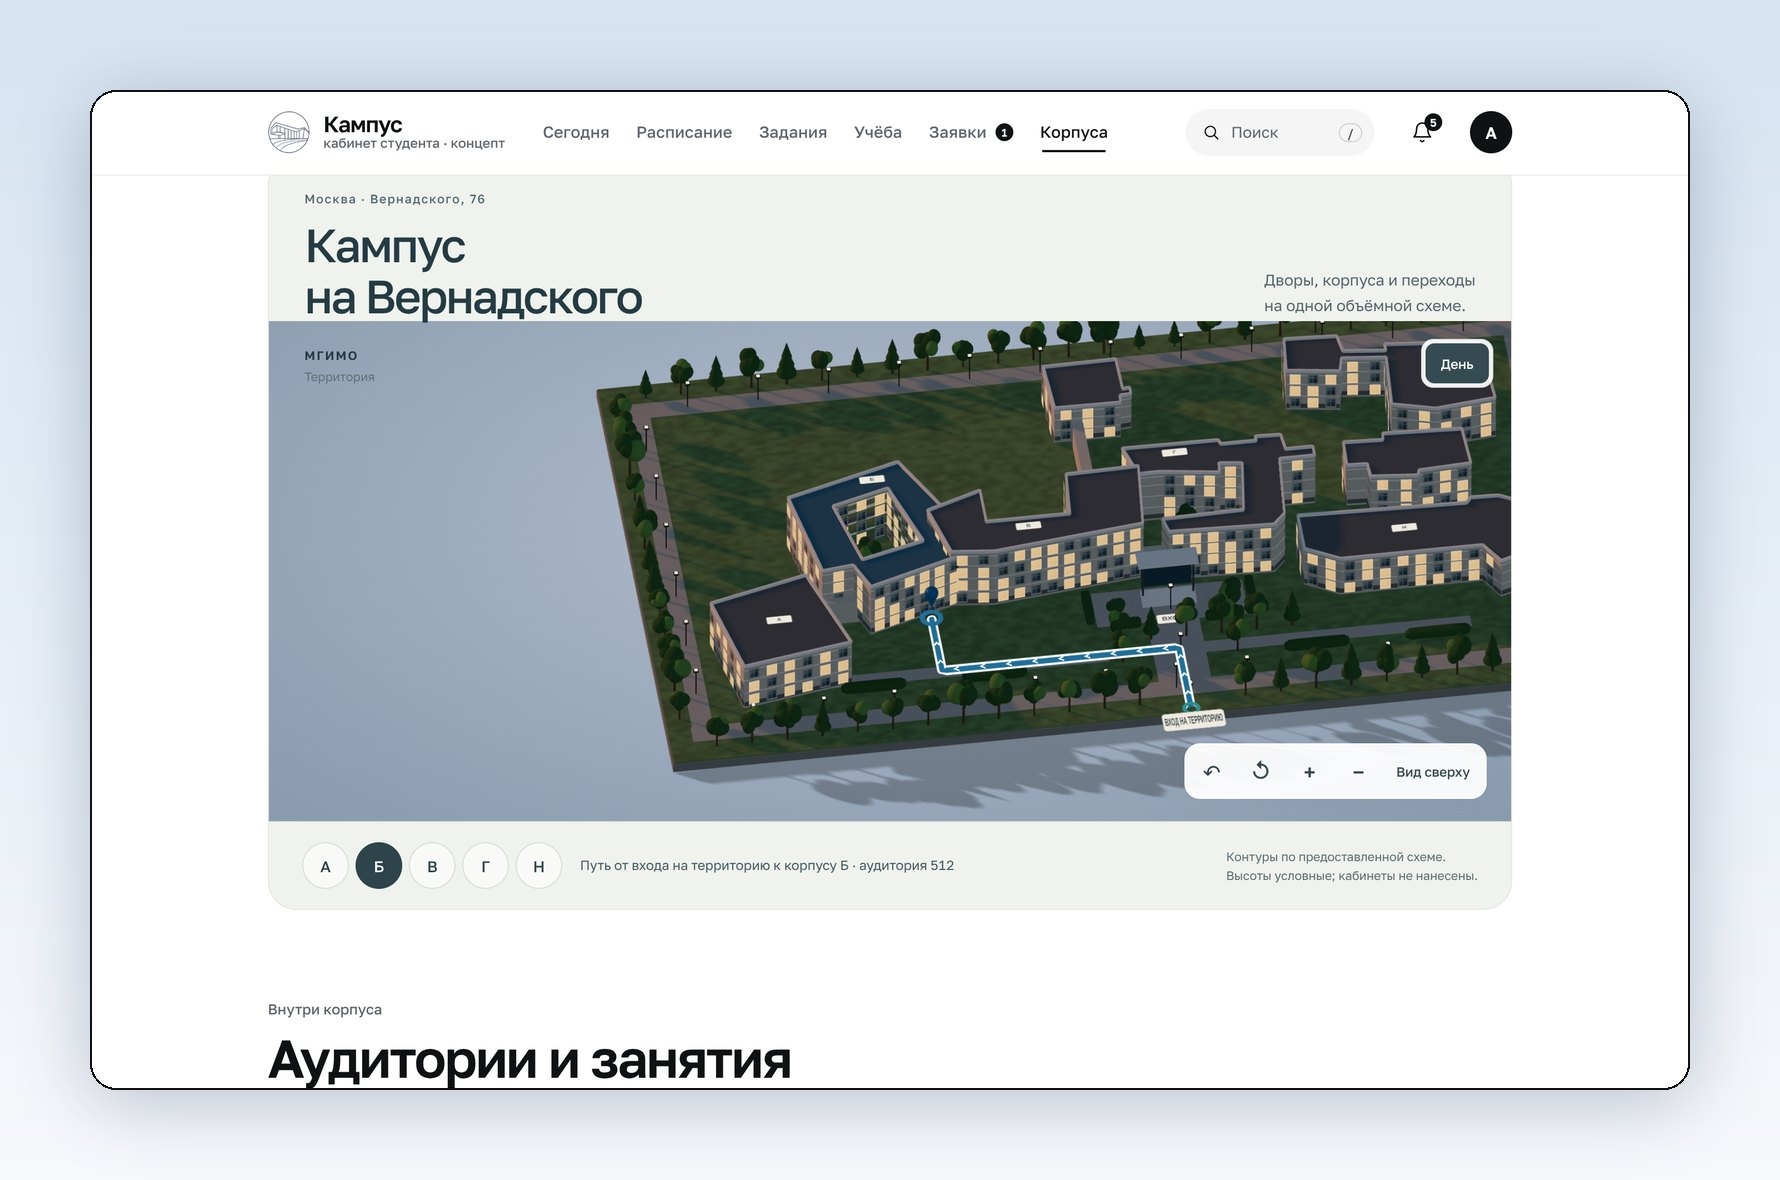
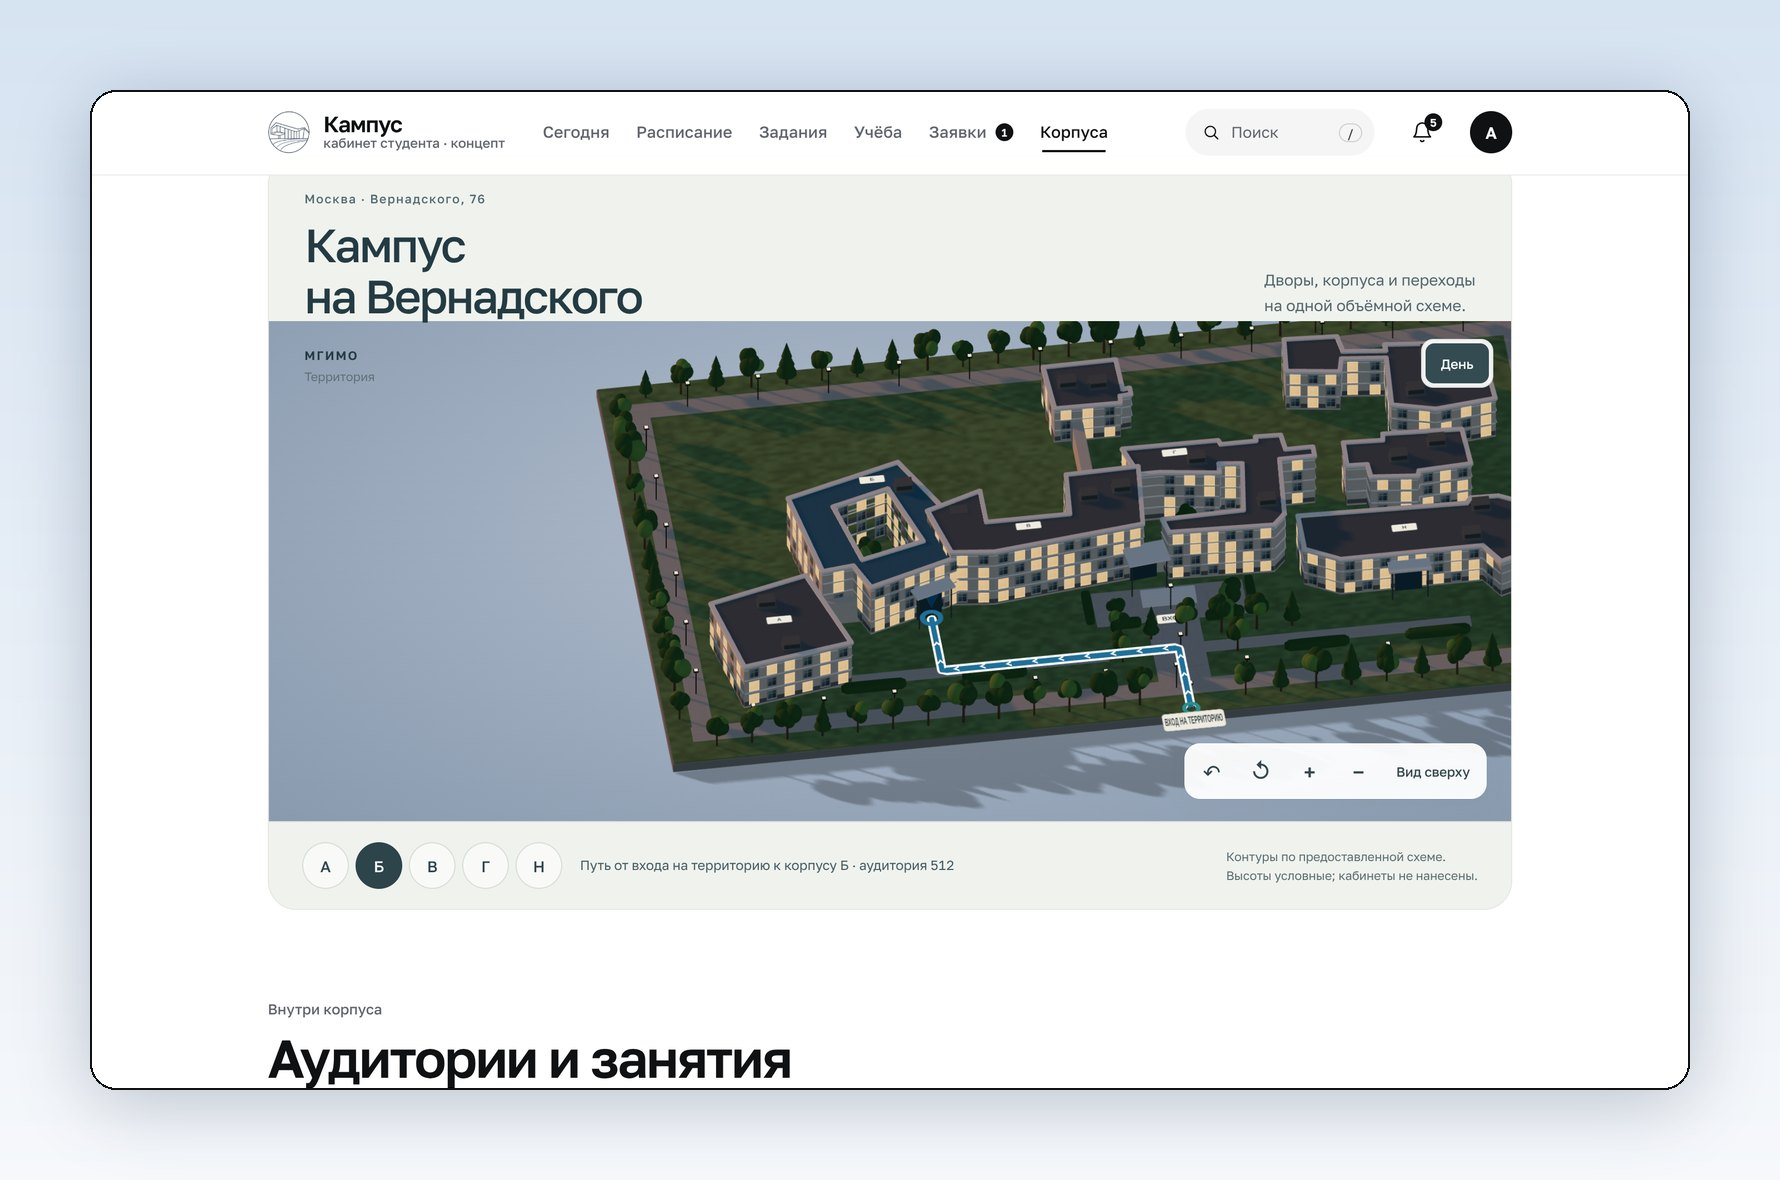
3D-фасады: карнизы, межэтажные пояса, козырьки входов, оборудование на кровле; на макете подписан корпус схемы
Claude-Session: https://claude.ai/code/session_01WXnceTRAi8bW5CZN4AeUqz

diff --git a/public/js/architecture-exterior.js b/public/js/architecture-exterior.js
@@ -1,7 +1,63 @@
-import {WINGS} from './campus-geometry.js';
+import {WINGS,territoryRoute} from './campus-geometry.js';
 
 const world=([x,z])=>[(x-410)/20,(z-190)/20];
 const signedArea=(points)=>points.reduce((sum,p,i)=>{const q=points[(i+1)%points.length];return sum+p[0]*q[1]-q[0]*p[1];},0);
+
+function nearestEdge(points,[x,z]) {
+  let nearest;
+  for(let i=0;i<points.length;i++) {
+    const a=points[i],b=points[(i+1)%points.length],dx=b[0]-a[0],dz=b[1]-a[1];
+    const t=Math.max(0,Math.min(1,((x-a[0])*dx+(z-a[1])*dz)/(dx*dx+dz*dz)));
+    const px=a[0]+t*dx,pz=a[1]+t*dz,distance=Math.hypot(x-px,z-pz);
+    if(!nearest||distance<nearest.distance)nearest={x:px,z:pz,dx,dz,distance};
+  }
+  return nearest;
+}
+
+function inside(points,x,z) {
+  let hit=false;
+  for(let i=0,j=points.length-1;i<points.length;j=i++) {
+    const a=points[i],b=points[j];
+    if((a[1]>z)!==(b[1]>z)&&x<(b[0]-a[0])*(z-a[1])/(b[1]-a[1])+a[0])hit=!hit;
+  }
+  return hit;
+}
+
+function roofEquipment(kit,wing,outline,holes) {
+  if(kit.mobile)return;
+  const {box,m}=kit,xs=outline.map(p=>p[0]),zs=outline.map(p=>p[1]);
+  const minX=Math.min(...xs),minZ=Math.min(...zs),width=Math.max(...xs)-minX,depth=Math.max(...zs)-minZ;
+  const label=wing.label&&world(wing.label);
+  let seed=(Math.imul(wing.pts[0][0]+1,73856093)^Math.imul(wing.pts[0][1]+1,19349663))>>>0;
+  const random=()=>{seed=(Math.imul(seed,1664525)+1013904223)>>>0;return seed/4294967296;};
+  const placed=[];
+  for(let attempt=0;attempt<100&&placed.length<2;attempt++) {
+    const x=minX+random()*width,z=minZ+random()*depth;
+    // A .65 clearance contains the entire unit, including its base, on the roof.
+    if(!inside(outline,x,z)||holes.some(h=>inside(h,x,z))||
+      [outline,...holes].some(loop=>nearestEdge(loop,[x,z]).distance<.65)||
+      (label&&Math.hypot(x-label[0],z-label[1])<1.15)||placed.some(p=>Math.hypot(x-p[0],z-p[1])<1.4))continue;
+    placed.push([x,z]);
+    box(x,wing.height+.08,z,.95,.12,.7,m.plinth);
+    box(x,wing.height+.28,z,.78,.28,.54,m.metal);
+    box(x,wing.height+.44,z,.84,.045,.6,m.plinth);
+  }
+}
+
+function entranceCanopy(kit,route) {
+  const {box,m}=kit,wing=WINGS.find(w=>w.id===route.wing);
+  const [doorX,doorZ]=world(route.points[route.points.length-1]);
+  const edge=nearestEdge(wing.pts.map(world),[doorX,doorZ]);
+  const length=Math.hypot(edge.dx,edge.dz),nx=edge.dz/length,nz=-edge.dx/length;
+  const rotation=-Math.atan2(edge.dz,edge.dx),height=Math.min(2.15,wing.height-.35);
+  // Span from the actual facade to the route endpoint, even where the schema
+  // leaves an entrance apron between the wall and the navigation door.
+  const depth=Math.max(.95,(doorX-edge.x)*nx+(doorZ-edge.z)*nz+.25);
+  box(edge.x+nx*(depth/2-.06),height,edge.z+nz*(depth/2-.06),2.1,.12,depth,m.trim,rotation);
+  for(const sign of [-1,1])box(edge.x+nx*(depth-.2)+sign*edge.dx/length*.88,(height-.06)/2,
+    edge.z+nz*(depth-.2)+sign*edge.dz/length*.88,.065,height-.06,.065,m.metal);
+  box(edge.x+nx*.07,.88,edge.z+nz*.07,1.35,1.76,.14,m.glass,rotation);
+}
 
 function facade(kit,points,height,{floors=3,spacing=.76,windowWidth=.36,windowHeight=.48,base=.14}={}) {
   const {box,windowBay,m}=kit;
@@ -11,9 +67,10 @@ function facade(kit,points,height,{floors=3,spacing=.76,windowWidth=.36,windowHe
     const angle=-Math.atan2(dz,dx),normal=[dz/length,-dx/length];
     const mid=[(a[0]+b[0])/2,(a[1]+b[1])/2];
     box(mid[0],base+.13,mid[1],length,.26,.095,m.plinth,angle);
-    box(mid[0],height+.1,mid[1],length,.16,.12,m.trim,angle);
+    // Pale coping projects beyond the bevel and meets at the roof corners.
+    box(mid[0],height+.065,mid[1],length+.12,.13,.23,m.trim,angle);
     box(mid[0],height-.18,mid[1],length,.055,.09,m.trim,angle);
-    for(let floor=1;floor<floors;floor++)box(mid[0],base+floor*(height-base)/floors,mid[1],length,.045,.08,m.trim,angle);
+    for(let floor=1;floor<floors;floor++)box(mid[0]+normal[0]*.045,base+floor*(height-base)/floors,mid[1]+normal[1]*.045,length,.035,.08,m.trim,angle);
     const count=Math.max(0,Math.floor((length-.3)/spacing));
     for(let n=0;n<count;n++)for(let f=0;f<floors;f++) {
       const t=(n+.5)/count,x=a[0]+dx*t+normal[0]*.055,z=a[1]+dz*t+normal[1]*.055;
@@ -44,6 +101,7 @@ export function buildTerritory(kit,picks) {
     mesh.userData.wing=wing;if(wing.id)picks.push(mesh);
     facade(kit,outline,wing.height,{floors:Math.max(2,Math.round(wing.height/.78))});
     for(const hole of holes)facade(kit,signedArea(hole)>0?[...hole].reverse():hole,wing.height,{floors:Math.max(2,Math.round(wing.height/.78))});
+    roofEquipment(kit,wing,outline,holes);
     if(wing.id){const [x,z]=world(wing.label);text(wing.id,x,wing.height+.18,z,1.3);}
   }
   for(const [px,pz] of [[176,222],[493,217]]) {
@@ -69,9 +127,7 @@ export function buildTerritory(kit,picks) {
   for(const x of [-13,-7,9,15])hedge(x,9.65,3.2,.45,-.12);
   const [ex,ez]=world([455,278]);
   for(let i=0;i<5;i++)box(ex,.08-i*.035,ez+.5+i*.19,2.7,.2-i*.035,.22,m.trim);
-  box(ex,1.05,ez-.08,2.5,2.1,.14,m.glass);
-  box(ex,2.15,ez+.36,3,.12,1.1,m.trim);
-  for(const sign of [-1,1])box(ex+sign*1.25,1.02,ez+.7,.1,2.04,.1,m.metal);
+  for(const id of ['А','Б','С'])entranceCanopy(kit,territoryRoute(id));
   text('ВХОД',ex,.01,ez+2.4,1.65);
 }
 

diff --git a/public/js/student.js b/public/js/student.js
@@ -1,3 +1,4 @@
+import {BUILDING_WING} from './campus-geometry.js';
 import {S, lessonIndex} from './state.js';
 import {icon} from './icons.js';
 import {esc, mskNow, toMin, dayLong, dayShort, dayMonth, weekdayShort, stamp, count, plural, duration, daysBetween, relativeDay, untilText, cap, fmt, qrSvg, verifyUrl} from './util.js';
@@ -458,7 +459,7 @@ export function viewRooms() {
   const free = freeRooms(pair, S.bld).filter((r) => r.floor === floor), total = S.data.campus.rooms.filter((r) => r.building === S.bld && r.floor === floor && r.seats).length;
   const b = building(S.bld);
   const target = S.room && !S.routeBlocked ? roomByKey(S.room) : null;
-  return `<div class="page campus-page">${territoryScene(false, target ? {building: target.building, label: target.building, room: target.room} : null)}${head('Внутри корпуса', 'Аудитории и занятия', `Проектная версия по мотивам плана главного здания: внутренние дворы, коридоры и аудитории. Номера, назначение комнат и этажность придуманы для прототипа.`)}
+  return `<div class="page campus-page">${territoryScene(false, target ? {building: target.building, label: BUILDING_WING[target.building] && BUILDING_WING[target.building] !== target.building ? `${target.building} (на схеме — ${BUILDING_WING[target.building]})` : target.building, room: target.room} : null)}${head('Внутри корпуса', 'Аудитории и занятия', `Проектная версия по мотивам плана главного здания: внутренние дворы, коридоры и аудитории. Номера, назначение комнат и этажность придуманы для прототипа.`)}
     ${navigationPanel()}<div class="stack">${mapDate()===S.data.campus.rooms_date?roomsDayNote():''}${buildingSeg()}${pairChips(pair)}</div>
     <section class="card campus-card" id="campus-map"><div class="row"><div><p class="eyebrow">${esc(b.name)} · открыт ${esc(b.hours)}</p><p class="title">${floor} этаж · ${mapDate()===S.data.campus.rooms_date?`свободно ${free.length} из ${total}`:esc(dayShort(mapDate()))}</p></div>
         <div class="rot"><button class="icon-btn flip" data-rot="-15" aria-label="Повернуть корпус влево">${icon('arrow')}</button><button class="icon-btn" data-rot="15" aria-label="Повернуть корпус вправо">${icon('arrow')}</button></div></div>

diff --git a/public/js/architecture-kit.js b/public/js/architecture-kit.js
@@ -21,6 +21,8 @@ function surfaceTexture(kind) {
 
 export function createArchitectureKit(root) {
   let target=root;
+  // Match the renderer's quality profile; keep optional roof equipment off mobile.
+  const mobile=matchMedia('(max-width: 700px)').matches || (navigator.deviceMemory || 8)<=4;
   const materials=new Map(),textures=new Map(),batches=new Map(),labels=new Map();
   const geometries={box:new T.BoxGeometry(1,1,1),window:new T.PlaneGeometry(1,1),trunk:new T.CylinderGeometry(.65,1,1,8),crown:new T.IcosahedronGeometry(1,2),conifer:new T.ConeGeometry(1,1,10),hedge:new T.BoxGeometry(1,1,1,4,4,4)};
   // Round a shared unit box; instances retain a clipped, architectural hedge silhouette.
@@ -219,7 +221,7 @@ export function createArchitectureKit(root) {
     }
     batches.clear();labels.clear();
   }
-  return {m,setEvening,material,box,classroom,prism,text,plant,lamp,hedge,bench,windowBay,flush,setGroup:(group)=>{target=group;}};
+  return {m,mobile,setEvening,material,box,classroom,prism,text,plant,lamp,hedge,bench,windowBay,flush,setGroup:(group)=>{target=group;}};
 }
 
 export function studioEnvironment() {

diff --git a/docs/architecture-model.md b/docs/architecture-model.md
@@ -84,6 +84,8 @@ node tests/browser_navigation.cjs
 
 Деревья двух пород: лиственные из 6–8 перекрывающихся крон разного размера и узкие хвойные из трёх конусов (примерно каждое четвёртое дерево). Добавлены фонари и живые изгороди как переиспользуемые элементы набора. В 3D-этаже (кроме мобильного профиля) парты рядами по числу мест, стол преподавателя и доска; в аудиториях от 60 мест — ступени амфитеатра. Низкие перегородки с проёмами дверей совпадают с 2D-планом, пол коридора чуть теплее пола аудиторий. Мебель рисуется экземплярами и не участвует в выборе.
 
+У корпусов карнизы по краю кровли, тонкие межэтажные пояса на фасадах и козырьки над входами маршрута; на кровлях настольной версии — вентиляционные блоки (детерминированная раскладка).
+
 Фонари стоят вдоль дорожек и у входов в корпуса (39 шт.), изгороди — у площади и отмостки. Всё рисуется экземплярами: на мобильном профиле 27 вызовов отрисовки (проверяется в `tests/browser_3d.cjs`).
 
 При выборе пути камера плавно подлетает к корпусу цели; кнопка корпуса отмечается `aria-pressed`. При `prefers-reduced-motion` перелёт заменяется мгновенной сменой вида.
